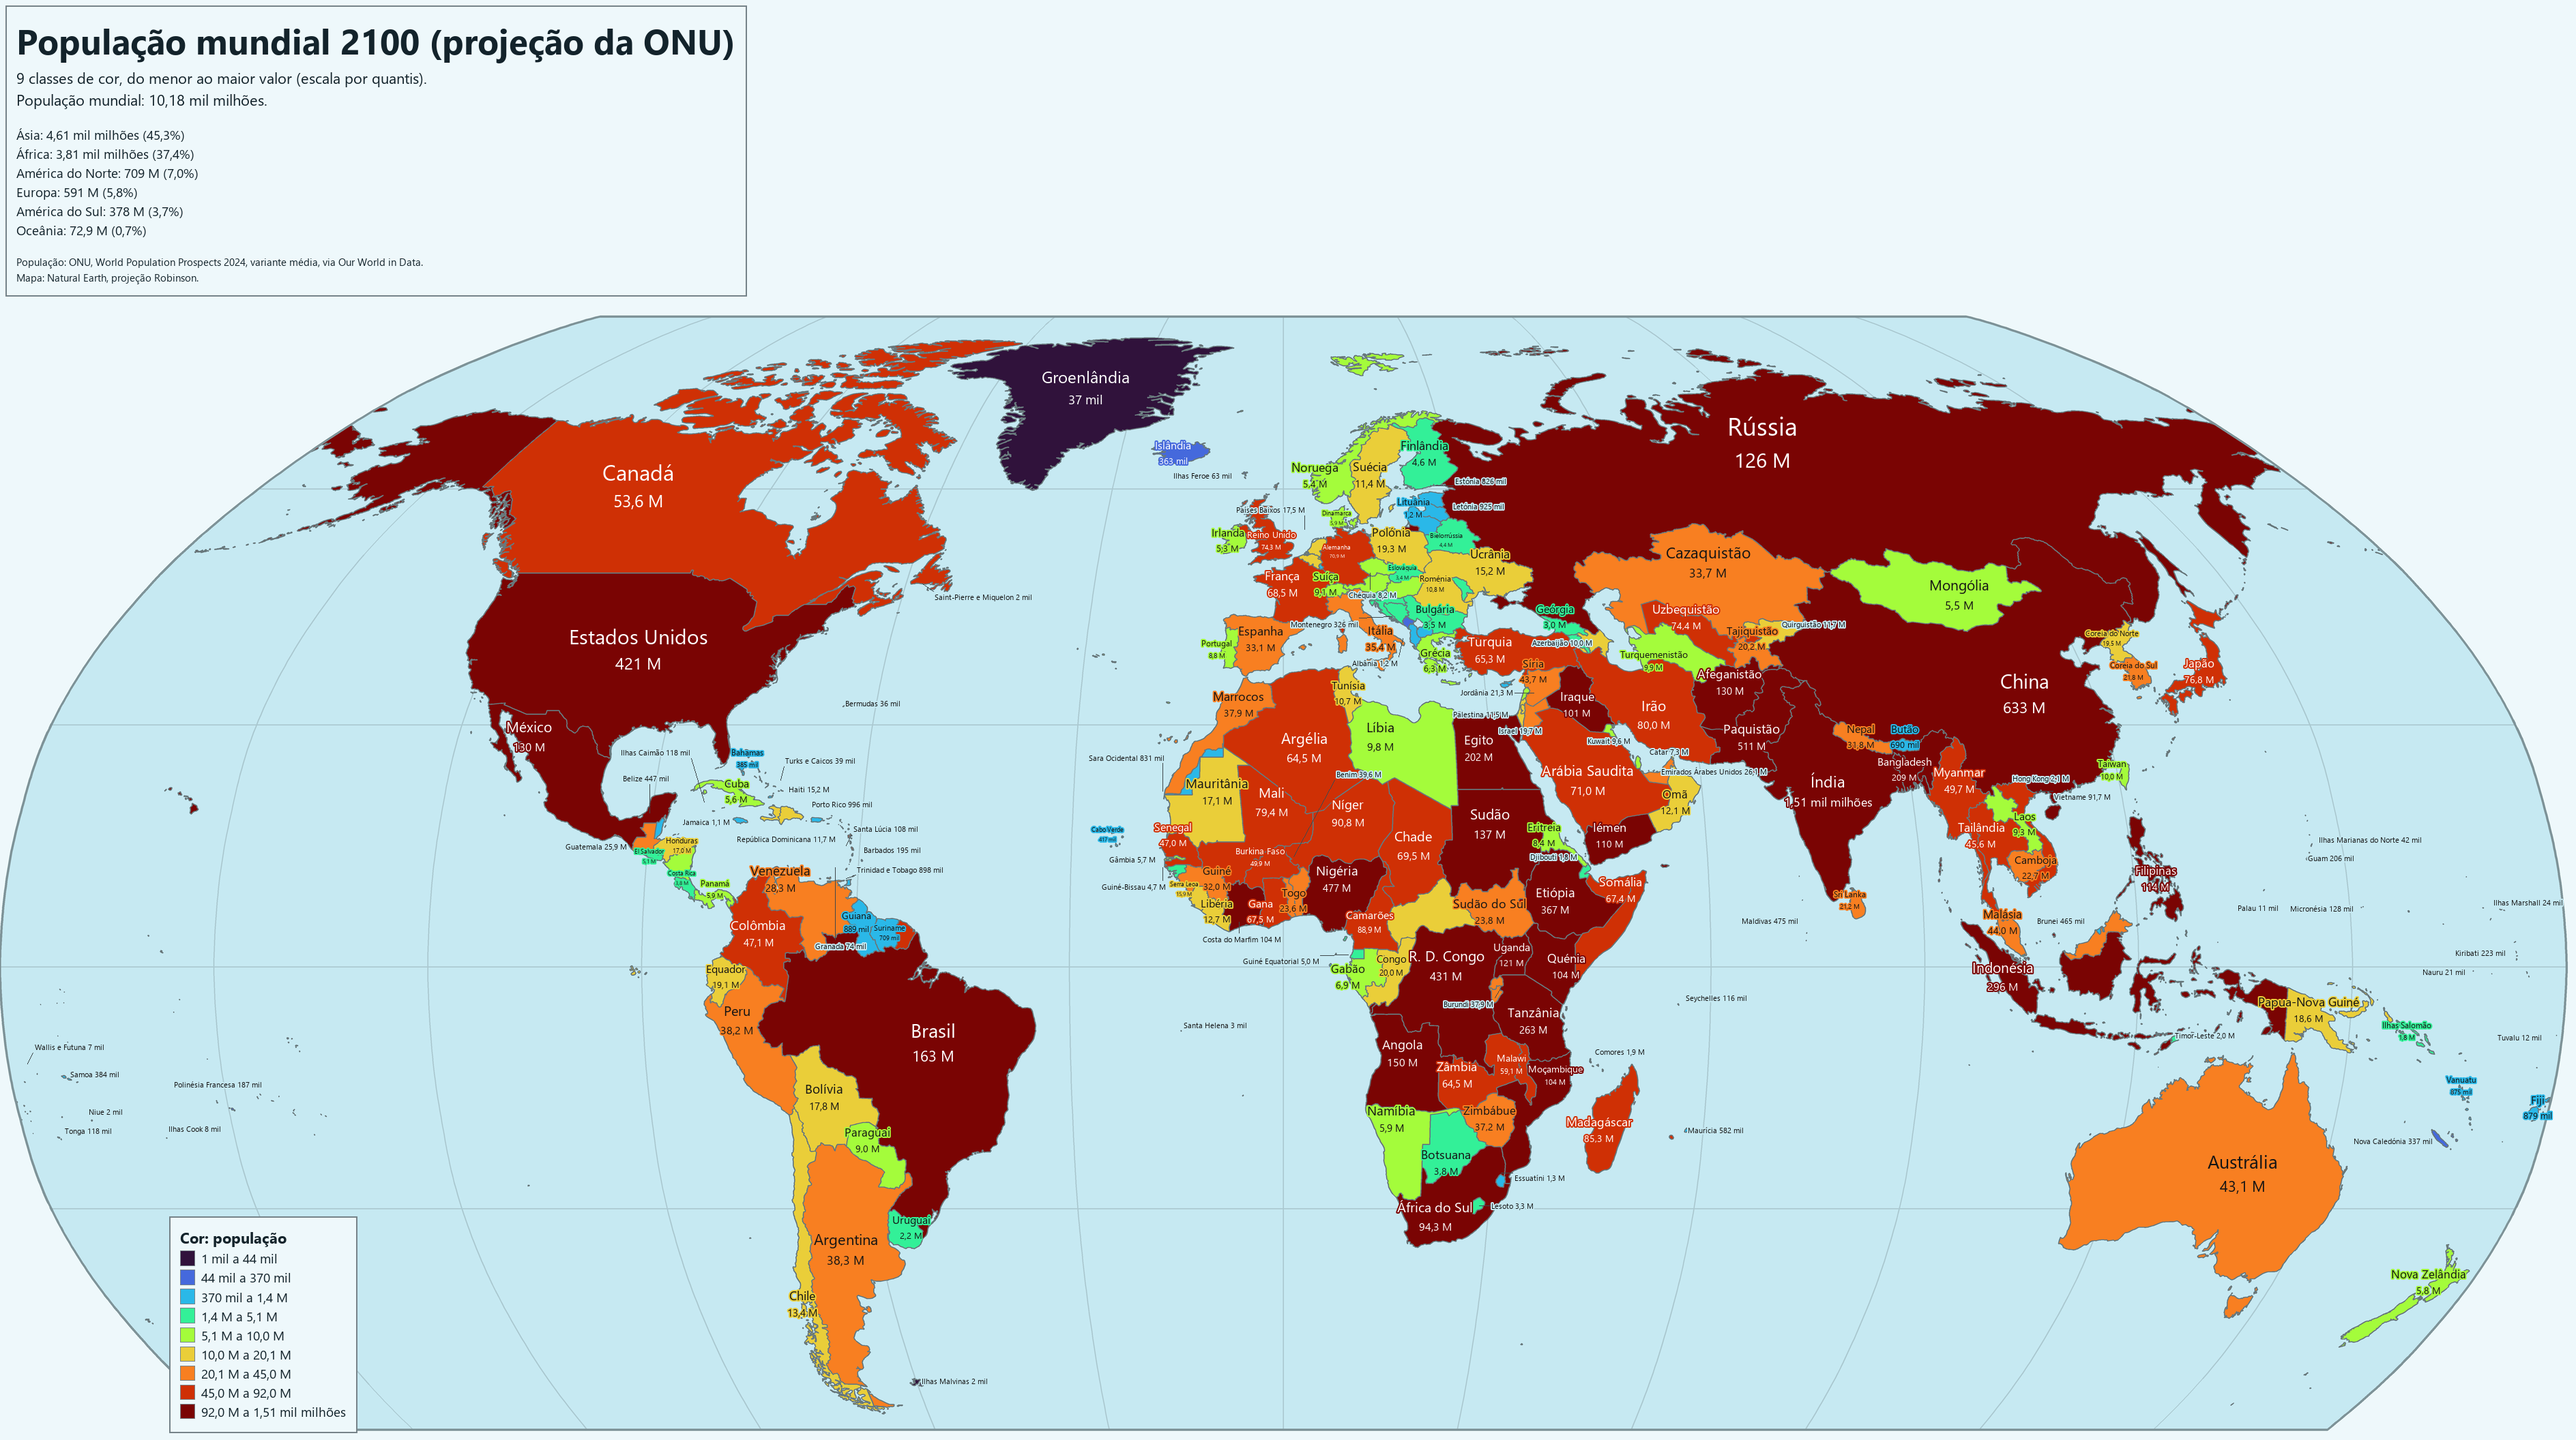
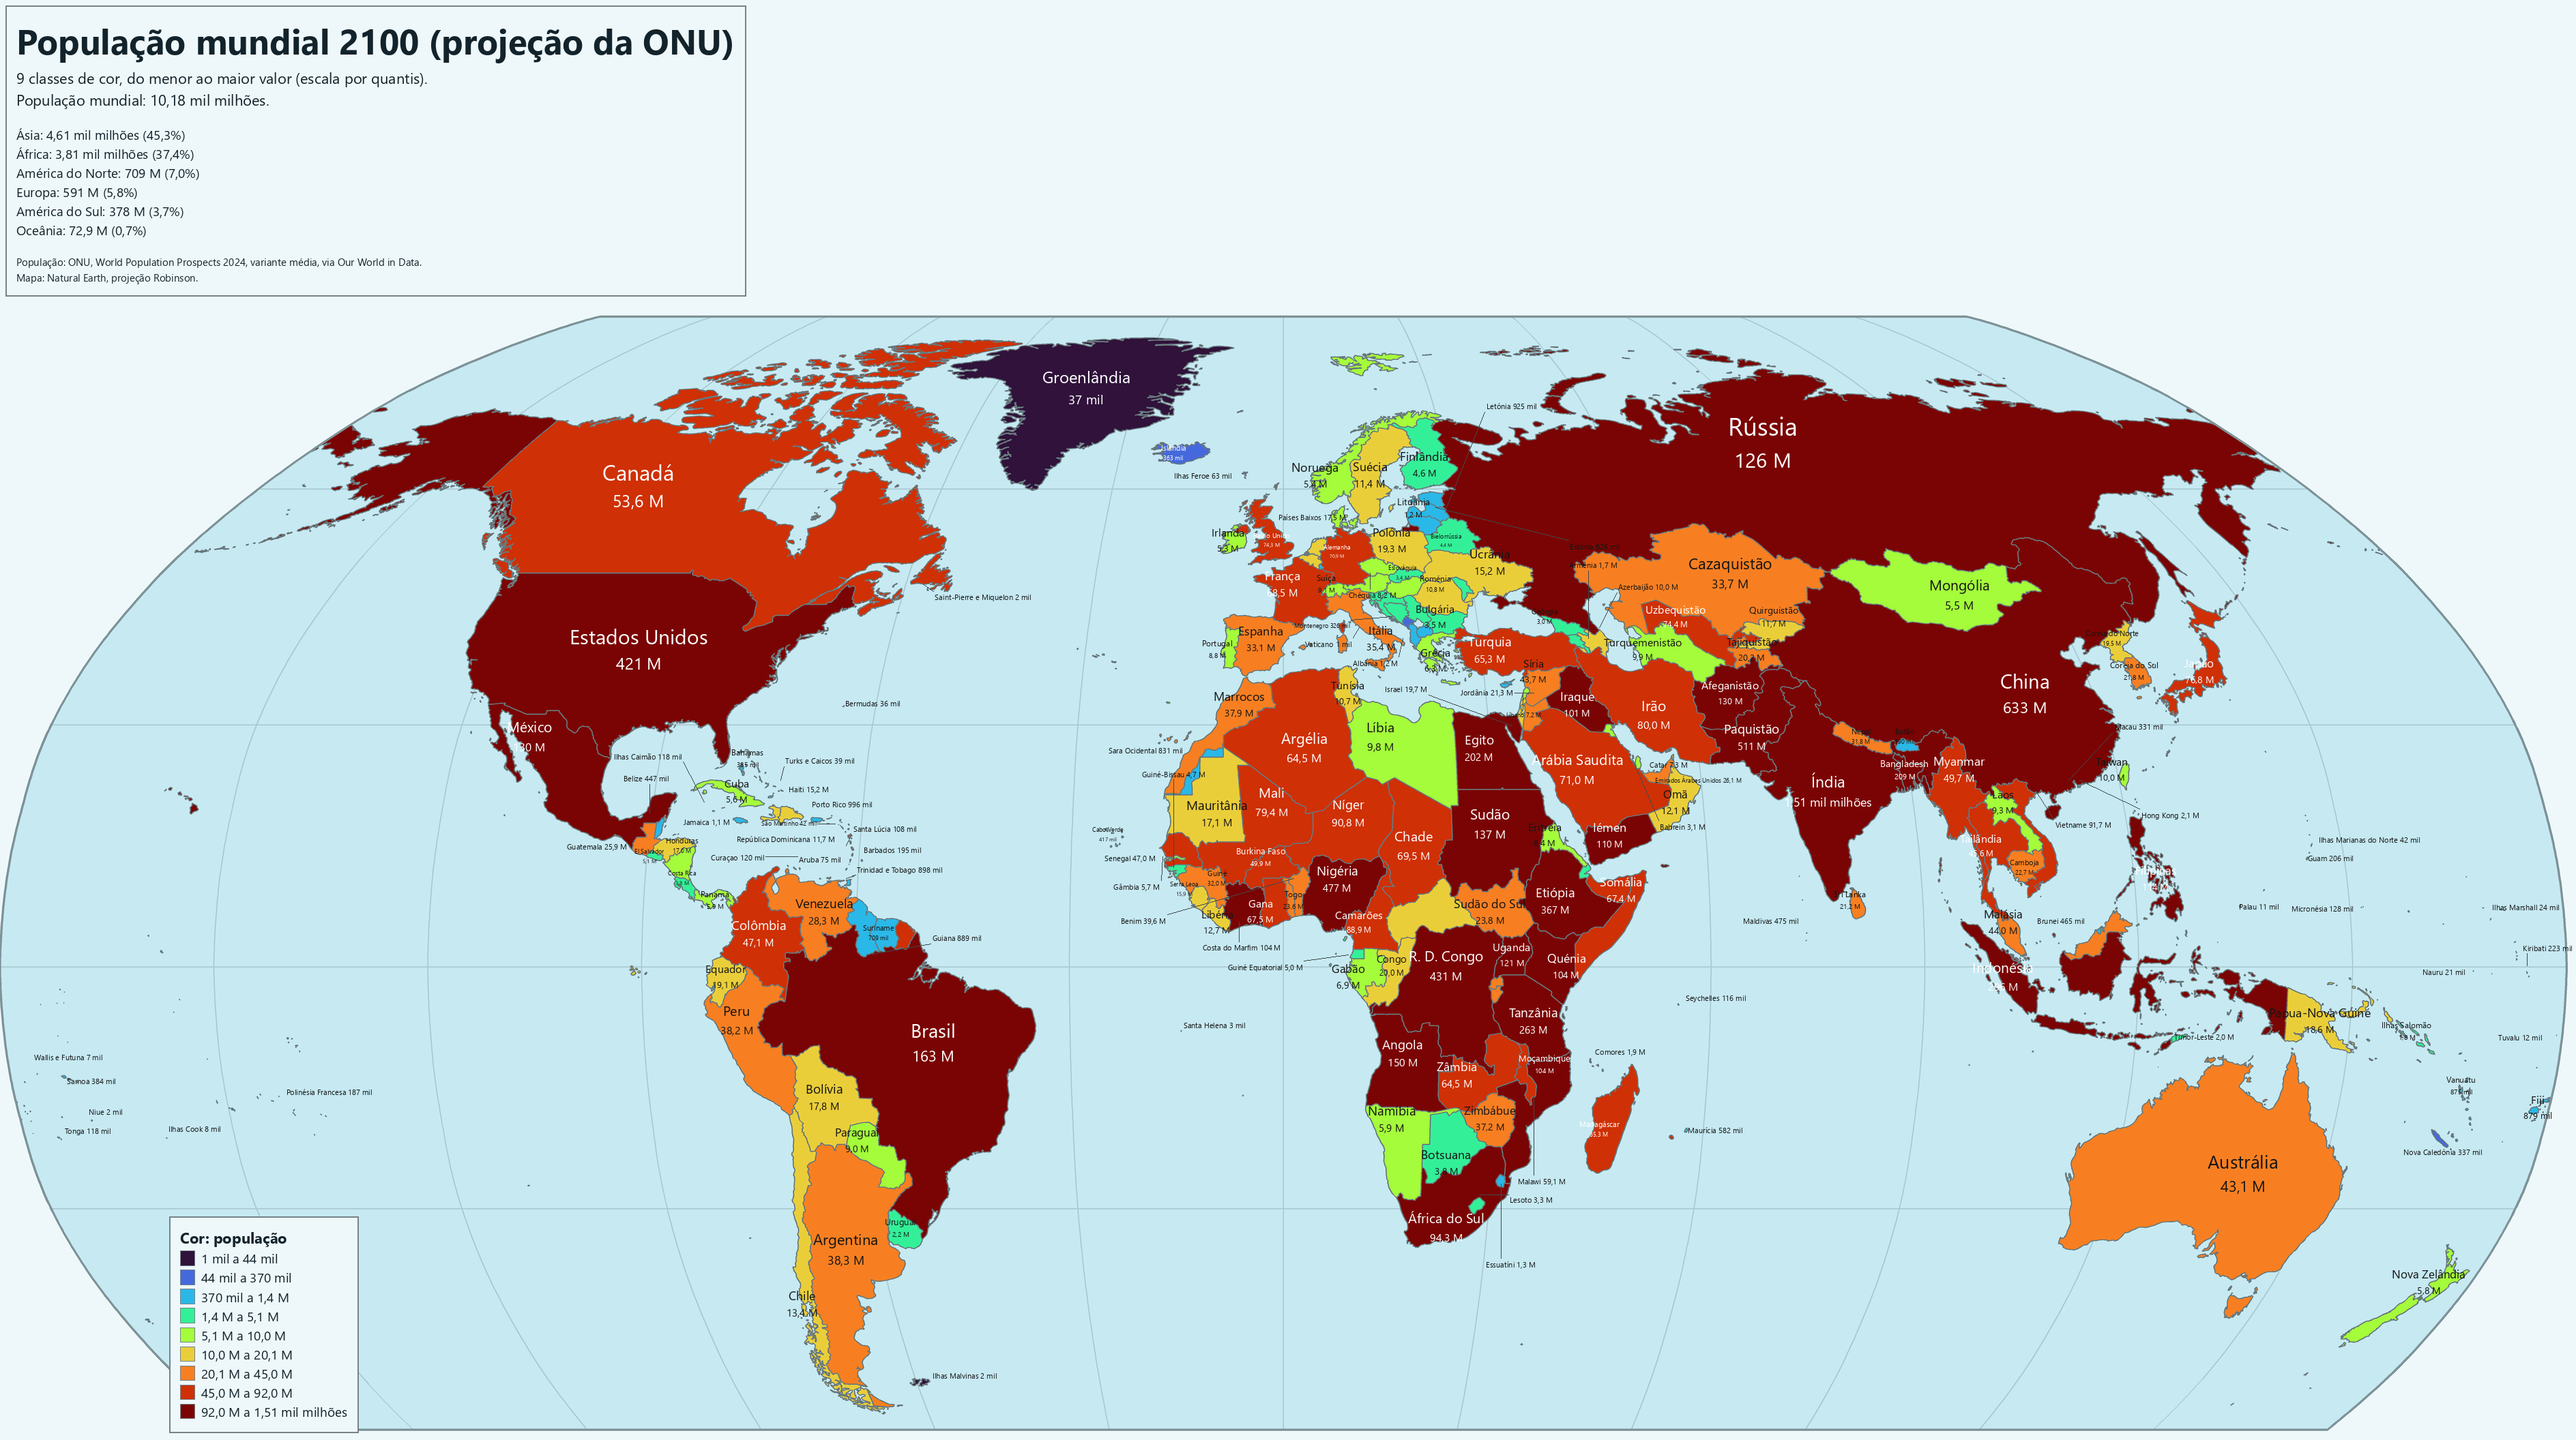
Map style: no halos on labels; text only on colours it contrasts with
Inside a country the label takes black or white, and any sea or neighbour
under its lines must also reach a WCAG contrast of 4:1 with that ink; outside
labels use the theme's text colour and only sit on cells they read on, trying
a smaller size before giving up. Other styles are unchanged.

diff --git a/population_cartogram.py b/population_cartogram.py
@@ -1411,6 +1411,7 @@ ROBINSON_PDFE = CubicSpline(np.arange(0, 91, 5), [
 MAP_SOUTH = -58.0                      # like the cartograms, without Antarctica
 MAP_CELLS = 24000                      # grid cells of a map: ~3700 x 1600 px with 16 px cells
 MAP_CELL_PX = 16
+MIN_CONTRAST = 4.0                     # labels on a map: WCAG contrast with every colour under the text
 # --region on --style map: central meridian, then the west, east, south and north limits
 REGION_VIEW = {"africa": (17, -20, 55, -36, 38), "asia": (90, 25, 150, -12, 56),
                "europe": (15, -25, 50, 34, 72), "north-america": (-100, -170, -50, 6, 84),
@@ -2406,6 +2407,14 @@ def render(layout, th, lang, cs, out_path, thematic=None, region=None):
     world = info["world"]
     order = sorted((i for i in range(1, n + 1) if shown(i)), key=lambda k: -pops[k])
     external = []
+    # A geographic map draws text without a halo, so a label may only lie on
+    # colours it contrasts with: readable[ink][id], id 0 being the sea and the page.
+    readable = {}
+    if geo:
+        for ink in ("#141414", "#ffffff", th["label"]):
+            readable[ink] = np.array(
+                [min(contrast_ratio(ink, sea), contrast_ratio(ink, th["page"])) >= MIN_CONTRAST]
+                + [contrast_ratio(ink, colour_of[i]) >= MIN_CONTRAST for i in range(1, n + 1)])
     for i in order:
         if T[i] == 0:
             continue
@@ -2415,6 +2424,7 @@ def render(layout, th, lang, cs, out_path, thematic=None, region=None):
         name = units[i - 1]["name"]
         value = value_text(i)
         tcol = "#141414" if luminance(hex_rgb(colour_of[i])) > 0.5 else "#ffffff"
+        inks = sorted(("#141414", "#ffffff"), key=lambda c: -contrast_ratio(c, colour_of[i]))
         dmap = distance_transform_edt(np.pad(mine, 1))[1:-1, 1:-1]
         ys, xs = np.nonzero(mine)
         dv = dmap[ys, xs]
@@ -2436,10 +2446,25 @@ def render(layout, th, lang, cs, out_path, thematic=None, region=None):
                 part = mine[r0:r1, c0:c1]
                 if part.mean() < (0.6 if geo else 0.9) or canvas.occ[r0:r1, c0:c1].any():
                     continue
+                if geo:                         # it may cross the border: an ink that reads on all it covers
+                    # (its own colour takes the better of black and white, as on the cartograms);
+                    # the cells mostly under each line of text, not the whole box
+                    under, y = [], box[1]
+                    for s, size, bold in lines:
+                        w, h = text_size(font(size, bold), s)
+                        a, b = int(round(y / cs)), int(round((y + h) / cs))
+                        c, d = int(round((px - w / 2) / cs)), int(round((px + w / 2) / cs))
+                        under.append(G[a:max(b, a + 1), c:max(d, c + 1)].ravel())
+                        y += h * 1.08
+                    under = np.unique(np.concatenate(under))
+                    others = under[under != i]
+                    tcol = next((c for j, c in enumerate(inks)
+                                 if readable[c][others].all() and (j == 0 or readable[c][i])), None)
+                    if tcol is None:
+                        continue
                 y = box[1]
-                for s, size, bold in lines:     # on a map the text may cross a border: a halo of its own colour
-                    dr.text((px, y), s, size, bold, tcol, anchor="ma",
-                            **({"halo": colour_of[i], "halo_w": max(1, cs // 8)} if geo else {}))
+                for s, size, bold in lines:
+                    dr.text((px, y), s, size, bold, tcol, anchor="ma")
                     y += text_size(font(size, bold), s)[1] * 1.08
                 canvas.occ[r0:r1, c0:c1] = True
                 placed = True
@@ -2452,20 +2477,19 @@ def render(layout, th, lang, cs, out_path, thematic=None, region=None):
 
     # --- labels outside, with a leader line. They may sit over other countries
     # (with a halo) when that keeps them much closer than the nearest open sea.
-    # A geographic map has no room to spare: the biggest countries first, and a
-    # label that would cover another is left out rather than overlap.
+    # A geographic map has no room to spare: the biggest countries first, without
+    # a halo, only on colours the text reads on, and a label that would cover
+    # another is left out rather than overlap.
     efs = max(cs * 0.7, 8) if geo else max(cs * 0.95, 8)
-    f = font(efs)
     land = G > 0
     halo = th["ocean"] or th["bg"]
     dirs = [(math.cos(a), math.sin(a)) for a in np.linspace(0, 2 * math.pi, 36 if geo else 24, endpoint=False)]
     leaders, ext_texts = [], []
     wired = np.zeros_like(canvas.occ)
+    ext_ok = readable[th["label"]][G] if geo else None
     unlabelled = []
     for i in external:
         s = f"{units[i - 1]['name']} {value_text(i)}"
-        bw, bh = text_size(f, s)
-        bw, bh = bw + 4, bh + 2
         ys, xs = np.nonzero(main_part(G == i))
         ay, ax = (ys.mean() + 0.5) * cs, (xs.mean() + 0.5) * cs
 
@@ -2480,25 +2504,33 @@ def render(layout, th, lang, cs, out_path, thematic=None, region=None):
                      np.clip((txc + (ex - txc) * t) // cs, 0, G.shape[1] - 1).astype(int))
             return cells, (ex, ey, txc, tyc)
 
-        best = None
-        for r in range(1, 20 if geo else 50):
-            if best is not None and best[0] < r:
+        for size in ((efs, max(cs * 0.55, 8)) if geo else (efs,)):     # a map tries smaller text too
+            bw, bh = text_size(font(size), s)
+            bw, bh = bw + 4, bh + 2
+            best = None
+            for r in range(1, 20 if geo else 50):
+                if best is not None and best[0] < r:
+                    break
+                for dx, dy in dirs:
+                    px, py = ax + dx * r * cs * 0.8, ay + dy * r * cs * 0.8
+                    x0 = px if dx > 0.3 else (px - bw if dx < -0.3 else px - bw / 2)
+                    y0 = py - bh / 2
+                    box = (x0, y0, x0 + bw, y0 + bh)
+                    if not canvas.inside(*box):
+                        continue
+                    r0, r1, c0, c1 = canvas.cells(*box)
+                    score = 1000 * canvas.occ[r0:r1, c0:c1].sum() + 0.6 * land[r0:r1, c0:c1].sum() + r
+                    if geo:                # only on colours the text reads on; no crossing other labels
+                        a, c = int(round(y0 / cs)), int(round(x0 / cs))
+                        score += 1000 * (~ext_ok[a:max(int(round((y0 + bh) / cs)), a + 1),
+                                                 c:max(int(round((x0 + bw) / cs)), c + 1)]).sum()
+                        (ly, lx), _ = leader_cells(box)
+                        score += (1000 * (canvas.occ[ly, lx].sum() + wired[r0:r1, c0:c1].sum())
+                                  + 60 * wired[ly, lx].sum())
+                    if best is None or score < best[0]:
+                        best = (score, box)
+            if best is not None and best[0] < 1000:
                 break
-            for dx, dy in dirs:
-                px, py = ax + dx * r * cs * 0.8, ay + dy * r * cs * 0.8
-                x0 = px if dx > 0.3 else (px - bw if dx < -0.3 else px - bw / 2)
-                y0 = py - bh / 2
-                box = (x0, y0, x0 + bw, y0 + bh)
-                if not canvas.inside(*box):
-                    continue
-                r0, r1, c0, c1 = canvas.cells(*box)
-                score = 1000 * canvas.occ[r0:r1, c0:c1].sum() + 0.6 * land[r0:r1, c0:c1].sum() + r
-                if geo:                    # nor cross other labels and leader lines
-                    (ly, lx), _ = leader_cells(box)
-                    score += (1000 * (canvas.occ[ly, lx].sum() + wired[r0:r1, c0:c1].sum())
-                              + 60 * wired[ly, lx].sum())
-                if best is None or score < best[0]:
-                    best = (score, box)
         if best is None or (geo and best[0] >= 1000):
             unlabelled.append(units[i - 1]["name"])
             continue
@@ -2509,12 +2541,12 @@ def render(layout, th, lang, cs, out_path, thematic=None, region=None):
         if math.hypot(ex - txc, ey - tyc) > cs * 0.9:
             leaders.append((ex, ey, txc, tyc))
             wired[cells] = True
-        ext_texts.append(((box[0] + 2, box[1] + 1), s))
+        ext_texts.append(((box[0] + 2, box[1] + 1), s, size))
     if unlabelled:
         log(f"  no room for {len(unlabelled)} label(s): {', '.join(unlabelled)}")
     dr.lines(leaders, th["lead"], max(1, cs // 10))
-    for xy, s in ext_texts:
-        dr.text(xy, s, efs, False, th["label"], anchor="la", halo=halo, halo_w=max(1, cs // 7))
+    for xy, s, size in ext_texts:
+        dr.text(xy, s, size, False, th["label"], anchor="la", halo=None if geo else halo, halo_w=max(1, cs // 7))
 
     # --- boxes
     def frame_box(b):

diff --git a/README.pt.md b/README.pt.md
@@ -250,7 +250,9 @@ cores dos vizinhos, para que vizinhos nunca tenham a mesma cor nem tons quase ig
 
 - Formas e posições são aproximadas: é um cartograma, não um mapa (exceto com `--style map`).
 - Em `--style map` os países muito pequenos (Singapura, Malta, ilhas do Pacífico) mal se veem. Os
-  nomes que não cabem dentro do país ficam ao lado, com uma linha de chamada; no mapa-mundo, uns 35
+  rótulos não têm contorno: o texto só fica onde contrasta com todas as cores por baixo dele (preto
+  ou branco dentro do país, a cor de texto do tema fora dele). Os nomes que não cabem dentro do país
+  ficam ao lado, com uma linha de chamada; no mapa-mundo, uns 35
   países pequenos dos sítios mais apertados (Balcãs, Caraíbas, Grandes Lagos africanos) ficam sem
   nome para as etiquetas não se sobreporem (o registo diz quais) — `--region` mostra-os todos. A
   Antártida fica de fora.

diff --git a/README.md b/README.md
@@ -250,7 +250,9 @@ difference) from its neighbours' colours, so neighbours never share a colour or 
 
 - Shapes and positions are approximate: this is a cartogram, not a map (except `--style map`).
 - On `--style map` very small countries (Singapore, Malta, Pacific islands) are barely visible.
-  Names that do not fit inside a country go beside it with a leader line; on the world map about
+  Labels have no outline or halo: text only goes where it contrasts with every colour under it
+  (black or white inside a country, the theme's text colour outside). Names that do not fit
+  inside a country go beside it with a leader line; on the world map about
   35 small countries in the most crowded places (Balkans, Caribbean, African Great Lakes) stay
   unnamed so that labels never overlap (the log lists them) — `--region` shows them all.
   Antarctica is left out.
